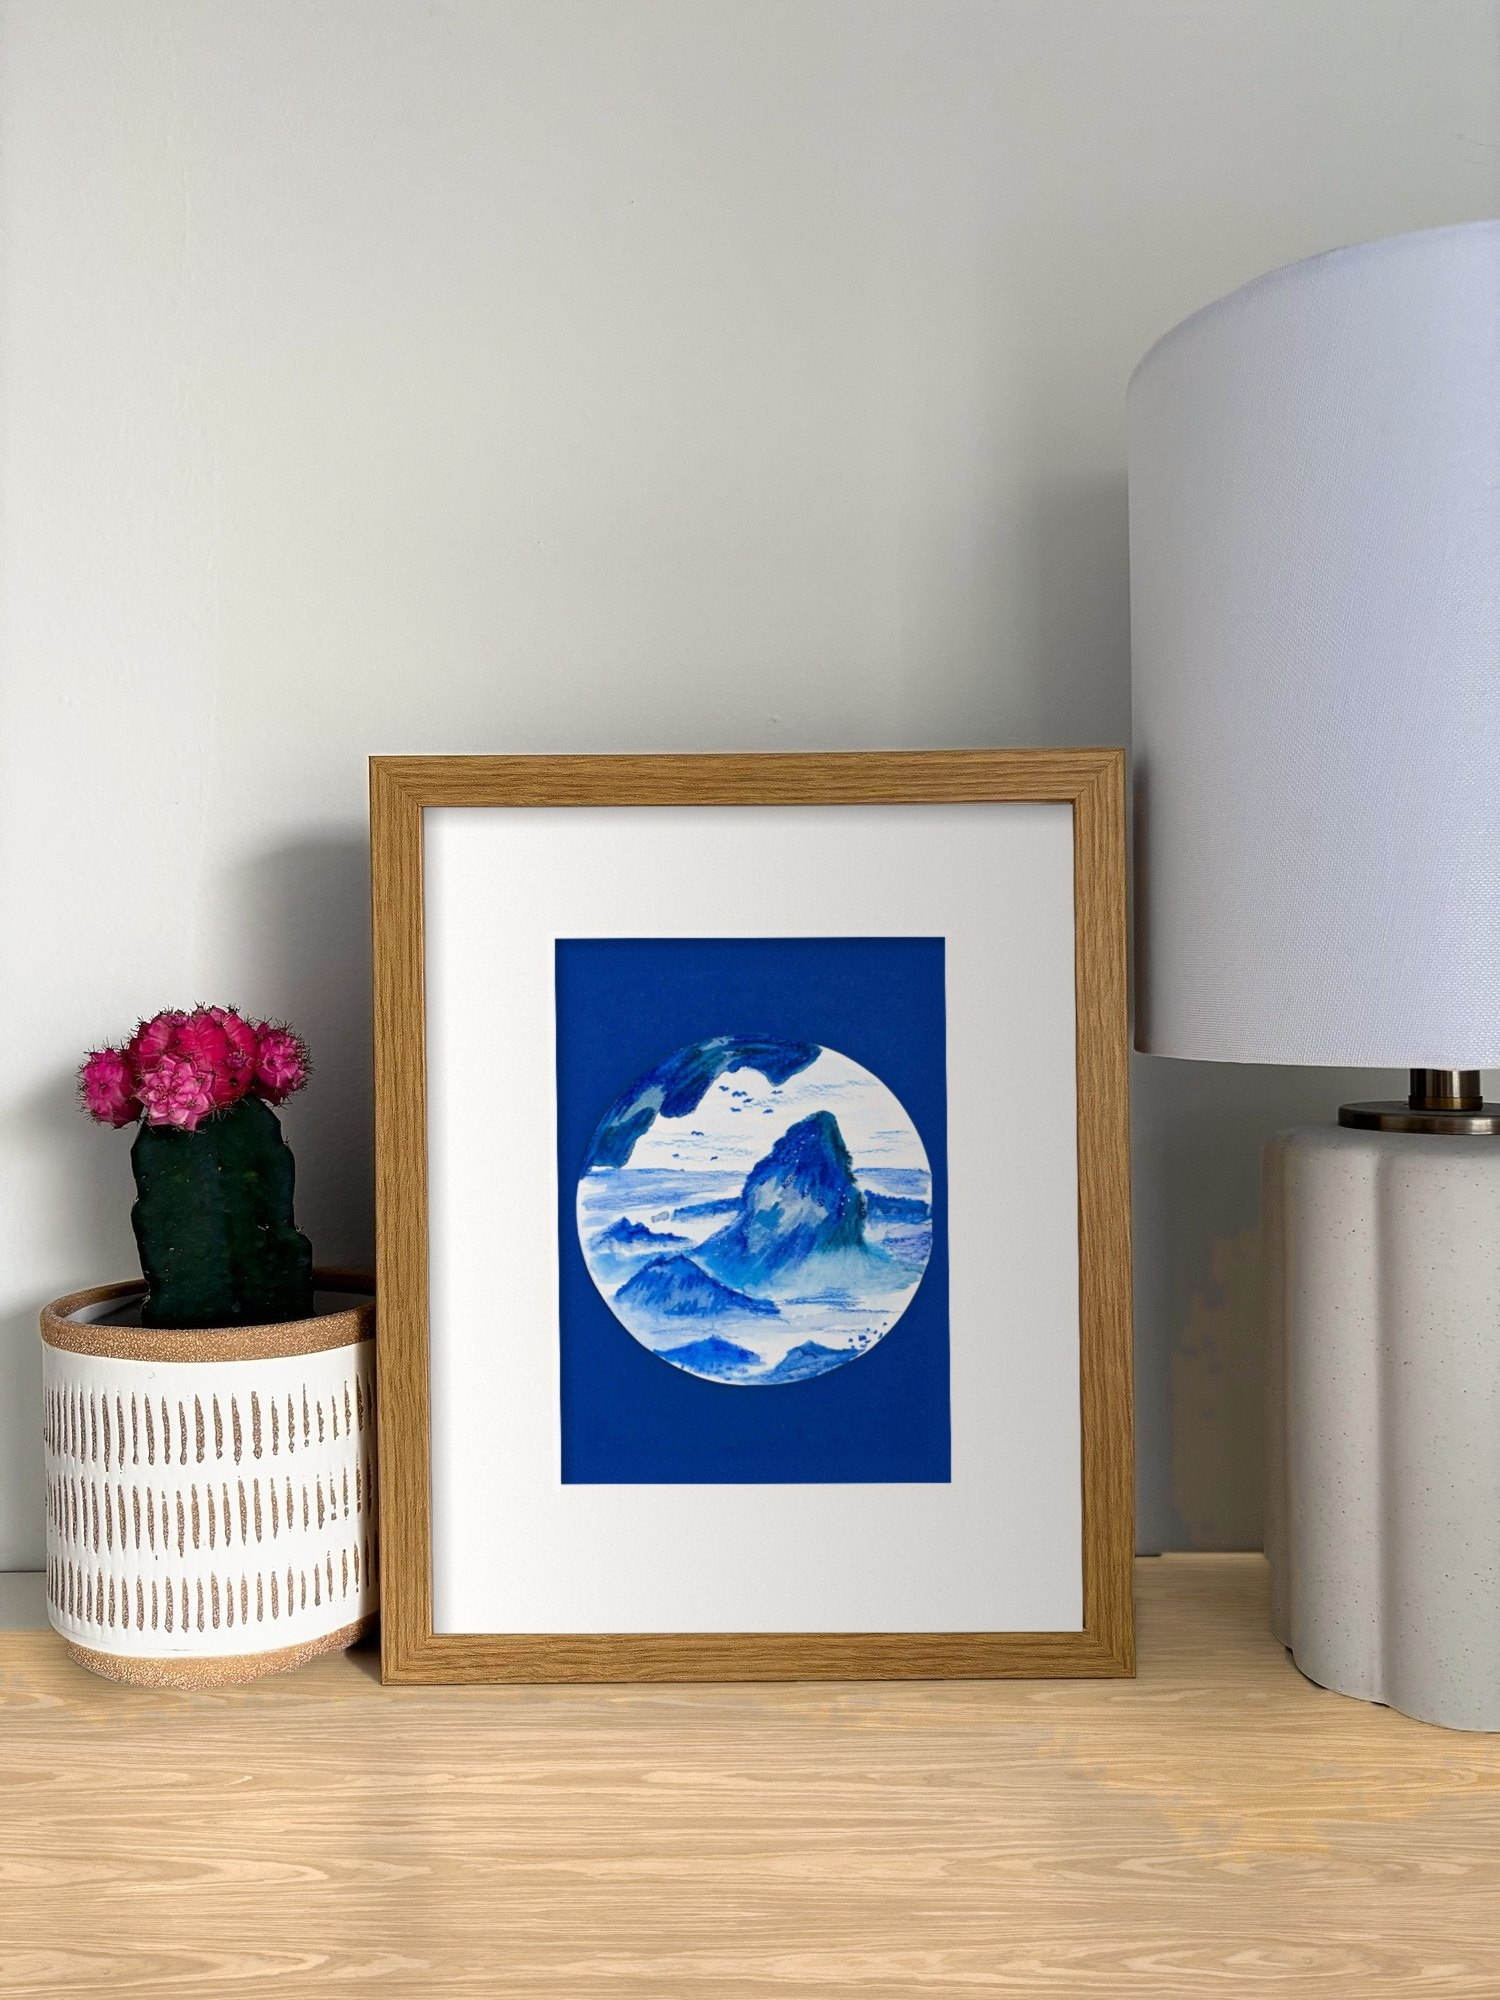
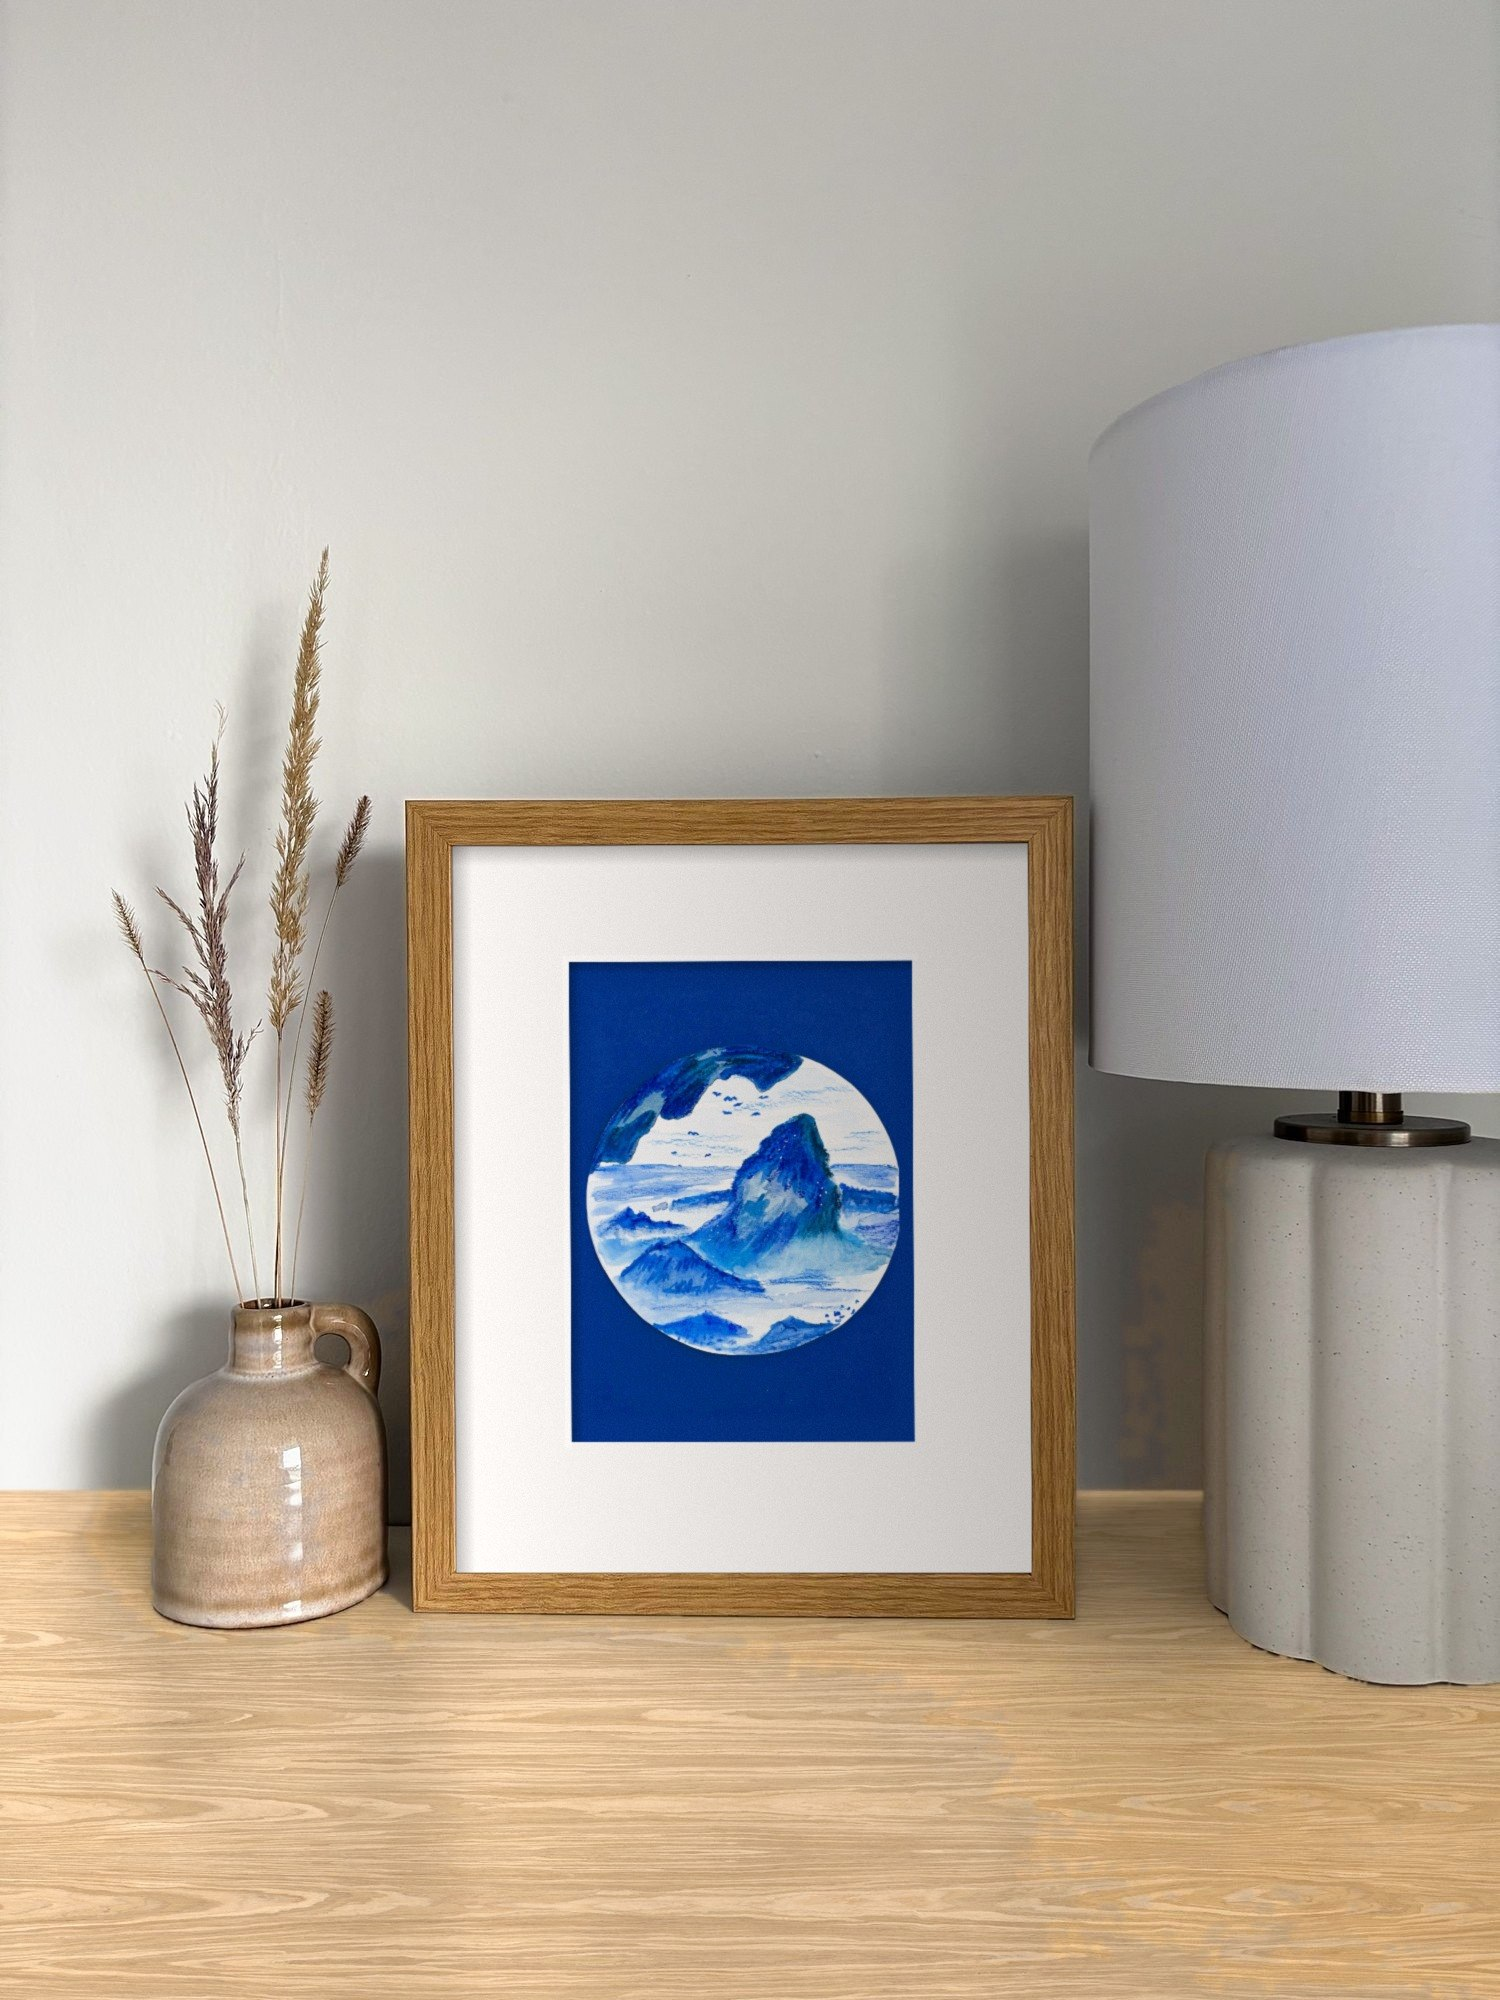
Hero: collection grid; Blue Peak in straw-vase scene and moved after Blues Hues
Claude-Session: https://claude.ai/code/session_01XKp1RWTHCKMFYA4zME3iiX

diff --git a/public/app.js b/public/app.js
@@ -38,7 +38,7 @@ const CONFIG = {
   ],
   defaultCollection: 'intuitive-abstracts',
   // Big image at the top: one piece, edited and hosted in /art
-  hero: { image: '/art/forest-walk.jpg', title: 'Forest Walk' },
+  hero: { image: '/art/collection-grid.jpg', title: 'The collection', photo: true },
   shipping: {
     fr: "Livraison gratuite au Canada et aux États-Unis. Expédiée sous 3 à 5 jours ouvrables, bien protégée.",
     en: "Free shipping within Canada and the US. Ships within 3–5 business days, carefully packaged.",
@@ -593,7 +593,7 @@ function demoArtworks() {
   ];
   const isLarge = (slug) => ['sky-ochre', 'moss-rain'].includes(slug);
   const setFor = (slug) => isLarge(slug) ? largeSet(slug) : [
-    { src: `/art/${slug}-photo1.jpg?v=6`, fill: true },
+    { src: `/art/${slug}-photo1.jpg?v=7`, fill: true },
     { src: `/art/${slug}-photo3.jpg?v=6`, fill: true },
     { src: `/art/${slug}.jpg` },
     { src: `/art/${slug}-matted.jpg`, fill: true },
@@ -683,7 +683,7 @@ function demoArtworks() {
   };
   const unmatted = ['mountain-landscape', 'blues-hues'];
   // Display order: by colour (blues → greens → purples → pinks → reds/oranges → warm), sold pieces mixed in
-  const ORDER = ['blue-peak', 'deep-blues', 'blue-hues-rectangular', 'blues-hues', 'sky-ochre', 'blue-gold', 'teal-hues', 'blue-hues-circular',
+  const ORDER = ['deep-blues', 'blue-hues-rectangular', 'blues-hues', 'blue-peak', 'sky-ochre', 'blue-gold', 'teal-hues', 'blue-hues-circular',
     'tidal-blues', 'moss-cobalt', 'moss-rain', 'forest-walk', 'sage-clay', 'violet-green', 'mystic-purple', 'purple-hues-rectangular',
     'purple-blues', 'violet-hues', 'purple-hues-circular', 'soft-pinks', 'pink-s', 'pink-hues', 'warm-hues', 'autumn-hues-circular',
     'orange-hues', 'autumn-hues-rectangular', 'mountain-landscape'];
@@ -729,7 +729,9 @@ function renderHero() {
   if (!el) return;
   const h = CONFIG.hero;
   el.innerHTML = h && h.image
-    ? `<div class="hero-crop"><img class="print" src="${escapeHtml(h.image)}" alt="${escapeHtml(h.title)}"></div>`
+    ? (h.photo
+      ? `<div class="hero-photo"><img src="${escapeHtml(h.image)}" alt="${escapeHtml(h.title)}"></div>`
+      : `<div class="hero-crop"><img class="print" src="${escapeHtml(h.image)}" alt="${escapeHtml(h.title)}"></div>`)
     : `<img src="${watercolour(7, ['#d93a6a', '#1d8a85', '#f2a03d', '#5b2a86', '#2fb39e'], { w: 600, h: 600, paper: 'transparent' })}" alt="">`;
 }
 

diff --git a/public/about.html b/public/about.html
@@ -8,7 +8,7 @@
   <link rel="preconnect" href="https://fonts.googleapis.com">
   <link rel="preconnect" href="https://fonts.gstatic.com" crossorigin>
   <link href="https://fonts.googleapis.com/css2?family=Instrument+Serif:ital@0;1&family=Instrument+Sans:wght@400;500;600&family=Fraunces:ital,opsz,wght,SOFT,WONK@0,9..144,400..600,0..100,0..1;1,9..144,400..600,0..100,0..1&family=DM+Serif+Display:ital@0;1&display=swap" rel="stylesheet">
-  <link rel="stylesheet" href="styles.css?v=1794693458">
+  <link rel="stylesheet" href="styles.css?v=1794694867">
   <link rel="icon" type="image/png" href="/favicon.png">
   <link rel="apple-touch-icon" href="/apple-touch-icon.png">
 </head>
@@ -30,6 +30,6 @@
     <span data-i18n="secure"></span>
   </footer>
 
-  <script src="app.js?v=1794694677"></script>
+  <script src="app.js?v=1794694867"></script>
 </body>
 </html>

diff --git a/public/piece.html b/public/piece.html
@@ -8,7 +8,7 @@
   <link rel="preconnect" href="https://fonts.googleapis.com">
   <link rel="preconnect" href="https://fonts.gstatic.com" crossorigin>
   <link href="https://fonts.googleapis.com/css2?family=Instrument+Serif:ital@0;1&family=Instrument+Sans:wght@400;500;600&family=Fraunces:ital,opsz,wght,SOFT,WONK@0,9..144,400..600,0..100,0..1;1,9..144,400..600,0..100,0..1&family=DM+Serif+Display:ital@0;1&display=swap" rel="stylesheet">
-  <link rel="stylesheet" href="styles.css?v=1794693458">
+  <link rel="stylesheet" href="styles.css?v=1794694867">
   <link rel="icon" type="image/png" href="/favicon.png">
   <link rel="apple-touch-icon" href="/apple-touch-icon.png">
 </head>
@@ -30,6 +30,6 @@
     <span data-i18n="secure"></span>
   </footer>
 
-  <script src="app.js?v=1794694677"></script>
+  <script src="app.js?v=1794694867"></script>
 </body>
 </html>

diff --git a/public/index.html b/public/index.html
@@ -8,7 +8,7 @@
   <link rel="preconnect" href="https://fonts.googleapis.com">
   <link rel="preconnect" href="https://fonts.gstatic.com" crossorigin>
   <link href="https://fonts.googleapis.com/css2?family=Instrument+Serif:ital@0;1&family=Instrument+Sans:wght@400;500;600&family=Fraunces:ital,opsz,wght,SOFT,WONK@0,9..144,400..600,0..100,0..1;1,9..144,400..600,0..100,0..1&family=DM+Serif+Display:ital@0;1&display=swap" rel="stylesheet">
-  <link rel="stylesheet" href="styles.css?v=1794693458">
+  <link rel="stylesheet" href="styles.css?v=1794694867">
   <link rel="icon" type="image/png" href="/favicon.png">
   <link rel="apple-touch-icon" href="/apple-touch-icon.png">
 </head>
@@ -67,6 +67,6 @@
   </footer>
 
 
-  <script src="app.js?v=1794694677"></script>
+  <script src="app.js?v=1794694867"></script>
 </body>
 </html>

diff --git a/public/styles.css b/public/styles.css
@@ -375,3 +375,6 @@ a.card { text-decoration: none; color: inherit; }
 .listing-more ul { margin: 12px 0 0; padding-left: 18px; line-height: 1.6; font-size: .95rem; }
 .listing-more p { margin: 12px 0 0; line-height: 1.6; font-size: .95rem; }
 .card-frame.is-photo { aspect-ratio: 4 / 5; }
+.hero-photo { width: 100%; max-width: 440px; margin-inline: auto; }
+.hero-photo img { width: 100%; height: auto; display: block; border-radius: 4px;
+  box-shadow: 0 2px 4px rgba(45, 42, 36, 0.10), 0 30px 60px -30px rgba(45, 42, 36, 0.45); }

diff --git a/public/merci.html b/public/merci.html
@@ -7,7 +7,7 @@
   <link rel="preconnect" href="https://fonts.googleapis.com">
   <link rel="preconnect" href="https://fonts.gstatic.com" crossorigin>
   <link href="https://fonts.googleapis.com/css2?family=Instrument+Serif:ital@0;1&family=Instrument+Sans:wght@400;500;600&display=swap" rel="stylesheet">
-  <link rel="stylesheet" href="styles.css?v=1794693458">
+  <link rel="stylesheet" href="styles.css?v=1794694867">
 </head>
 <body>
   <header class="site-header">
